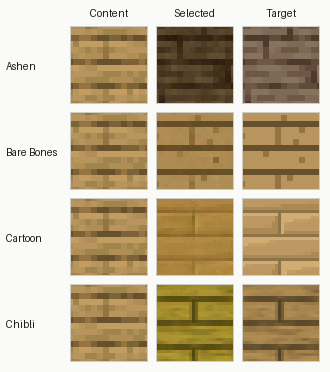
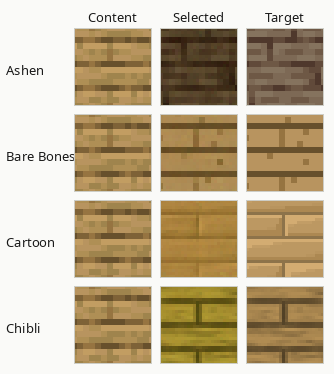
docs: document report texture figure generation

diff --git a/scripts/generate_report_texture_figures.py b/scripts/generate_report_texture_figures.py
@@ -1,0 +1,221 @@
+#!/usr/bin/env python3
+"""Generate compact texture-comparison figures for the report.
+
+The script reads saved validation preview panels from a checkpoint directory
+and writes the semantic report figures:
+
+    report/figures/multi-pack-oak-planks.png
+    report/figures/ashen-routing-examples.png
+
+The preview panels are expected to use SpriteCraft's validation layout:
+100x44 pixels for diffusion validation panels, with 32x32 content, output, and
+target tiles at x offsets 0, 34, and 68 after a 12-pixel label row. The script
+removes the selection border by trimming three pixels from each tile before
+scaling.
+"""
+
+from __future__ import annotations
+
+import argparse
+from pathlib import Path
+
+from PIL import Image, ImageDraw, ImageFont
+
+PACK_ROWS = (
+    ("Ashen_16x", "Ashen"),
+    ("Bare_Bones_1_21_11", "Bare Bones"),
+    ("Cartoon_Texture_Pack", "Cartoon"),
+    ("Chibli_64x_Freepack", "Chibli"),
+)
+ROUTING_ROWS = (
+    ("stone", "stone"),
+    ("oak_planks", "oak planks"),
+    ("bookshelf", "bookshelf"),
+    ("tnt_side", "tnt side"),
+)
+FONT_CANDIDATES = (
+    Path("/usr/share/fonts/noto/NotoSans-Regular.ttf"),
+    Path("/usr/share/fonts/liberation/LiberationSans-Regular.ttf"),
+    Path("/usr/share/fonts/TTF/DejaVuSans.ttf"),
+    Path("/usr/share/fonts/truetype/dejavu/DejaVuSans.ttf"),
+)
+BACKGROUND = (250, 250, 248)
+TEXT = (24, 24, 24)
+BORDER = (205, 205, 198)
+
+
+def _load_font(size: int) -> ImageFont.ImageFont:
+    for font_path in FONT_CANDIDATES:
+        if font_path.exists():
+            return ImageFont.truetype(str(font_path), size)
+    return ImageFont.load_default()
+
+
+def _text_size(draw: ImageDraw.ImageDraw, text: str, font: ImageFont.ImageFont) -> tuple[int, int]:
+    box = draw.textbbox((0, 0), text, font=font)
+    return box[2] - box[0], box[3] - box[1]
+
+
+def _tile(panel_path: Path, which: str, trim: int) -> Image.Image:
+    image = Image.open(panel_path).convert("RGB")
+    if image.size == (100, 44):
+        x_offset = {"content": 0, "output": 34, "target": 68}[which]
+        y_offset = 12
+    elif image.size == (96, 32):
+        x_offset = {"content": 0, "output": 32, "target": 64}[which]
+        y_offset = 0
+    else:
+        raise ValueError(f"Unexpected preview size {image.size}: {panel_path}")
+
+    return image.crop((
+        x_offset + trim,
+        y_offset + trim,
+        x_offset + 32 - trim,
+        y_offset + 32 - trim,
+    ))
+
+
+def _draw_grid(
+    *,
+    rows: tuple[tuple[str, str], ...],
+    columns: tuple[str, ...],
+    get_tile,
+    output_path: Path,
+    label_width: int,
+    scale: int,
+    gap: int,
+    trim: int,
+) -> None:
+    font = _load_font(13)
+    tile_size = (32 - 2 * trim) * scale
+    top = 28
+    pad = 10
+    width = label_width + len(columns) * tile_size + (len(columns) - 1) * gap + pad
+    height = top + len(rows) * tile_size + (len(rows) - 1) * gap + pad
+    canvas = Image.new("RGB", (width, height), BACKGROUND)
+    draw = ImageDraw.Draw(canvas)
+
+    for column_index, column in enumerate(columns):
+        x = label_width + column_index * (tile_size + gap)
+        text_width, _ = _text_size(draw, column, font)
+        draw.text((x + (tile_size - text_width) // 2, 8), column, fill=TEXT, font=font)
+
+    for row_index, (row_key, row_label) in enumerate(rows):
+        y = top + row_index * (tile_size + gap)
+        _, label_height = _text_size(draw, row_label, font)
+        draw.text((6, y + (tile_size - label_height) // 2 - 1), row_label, fill=TEXT, font=font)
+        for column_index, column in enumerate(columns):
+            x = label_width + column_index * (tile_size + gap)
+            tile = get_tile(row_key, column).resize((tile_size, tile_size), Image.Resampling.NEAREST)
+            canvas.paste(tile, (x, y))
+            draw.rectangle((x, y, x + tile_size - 1, y + tile_size - 1), outline=BORDER, width=1)
+
+    output_path.parent.mkdir(parents=True, exist_ok=True)
+    canvas.save(output_path)
+
+
+def generate_figures(
+    *,
+    checkpoint_root: Path,
+    output_dir: Path,
+    validation_step: int,
+    pack_id: str,
+    scale: int,
+    trim: int,
+    gap: int,
+) -> None:
+    step_dirname = f"step_{validation_step:06d}"
+
+    _draw_grid(
+        rows=PACK_ROWS,
+        columns=("Content", "Selected", "Target"),
+        get_tile=lambda pack, column: _tile(
+            checkpoint_root / pack / "validation" / step_dirname / "oak_planks_selected.png",
+            {"Content": "content", "Selected": "output", "Target": "target"}[column],
+            trim,
+        ),
+        output_path=output_dir / "multi-pack-oak-planks.png",
+        label_width=74,
+        scale=scale,
+        gap=gap,
+        trim=trim,
+    )
+
+    def routing_tile(texture: str, column: str) -> Image.Image:
+        branch = {
+            "Content": "selected",
+            "Diffusion": "diffusion",
+            "Recolor": "recolor",
+            "Selected": "selected",
+            "Target": "selected",
+        }[column]
+        which = {
+            "Content": "content",
+            "Diffusion": "output",
+            "Recolor": "output",
+            "Selected": "output",
+            "Target": "target",
+        }[column]
+        return _tile(
+            checkpoint_root / pack_id / "validation" / step_dirname / f"{texture}_{branch}.png",
+            which,
+            trim,
+        )
+
+    _draw_grid(
+        rows=ROUTING_ROWS,
+        columns=("Content", "Diffusion", "Recolor", "Selected", "Target"),
+        get_tile=routing_tile,
+        output_path=output_dir / "ashen-routing-examples.png",
+        label_width=86,
+        scale=scale,
+        gap=gap,
+        trim=trim,
+    )
+
+
+def main() -> None:
+    parser = argparse.ArgumentParser(description=__doc__)
+    parser.add_argument(
+        "--checkpoint-root",
+        type=Path,
+        default=Path("checkpoints/run39"),
+        help="Checkpoint directory containing per-pack validation previews.",
+    )
+    parser.add_argument(
+        "--output-dir",
+        type=Path,
+        default=Path("report/figures"),
+        help="Directory where generated report figures are written.",
+    )
+    parser.add_argument(
+        "--validation-step",
+        type=int,
+        default=10_000,
+        help="Validation step directory to read, e.g. 10000 for step_010000.",
+    )
+    parser.add_argument(
+        "--pack-id",
+        default="Ashen_16x",
+        help="Pack used for routing examples.",
+    )
+    parser.add_argument("--scale", type=int, default=3, help="Nearest-neighbor scale for cropped tiles.")
+    parser.add_argument("--trim", type=int, default=3, help="Pixels trimmed from each side of every tile.")
+    parser.add_argument("--gap", type=int, default=8, help="Pixel gap between grid cells.")
+    args = parser.parse_args()
+
+    generate_figures(
+        checkpoint_root=args.checkpoint_root,
+        output_dir=args.output_dir,
+        validation_step=args.validation_step,
+        pack_id=args.pack_id,
+        scale=args.scale,
+        trim=args.trim,
+        gap=args.gap,
+    )
+    print(f"Wrote {args.output_dir / 'multi-pack-oak-planks.png'}")
+    print(f"Wrote {args.output_dir / 'ashen-routing-examples.png'}")
+
+
+if __name__ == "__main__":
+    main()
